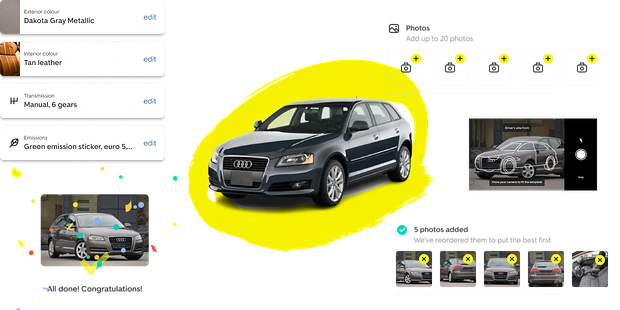
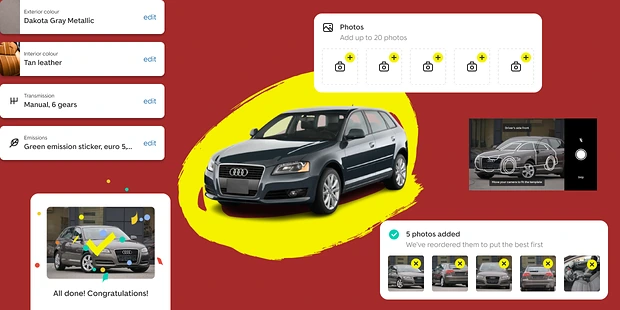
Selling Your Own Car: new homepage cover
Claude-Session: https://claude.ai/code/session_016vAdai3CtSbqx1Acff8fYM

diff --git a/index.html b/index.html
@@ -109,7 +109,7 @@
     <span class="book-cta">Read the case study <span class="book-arrow icon-arrow" aria-hidden="true"></span></span>
   </div>
   <div class="shot">
-  <img src="assets/img/private-sellers/cover.webp?v=3" srcset="assets/img/private-sellers/cover-620.webp?v=3 620w, assets/img/private-sellers/cover.webp?v=3 1240w" sizes="(max-width: 52rem) 100vw, 620px" alt="" width="1240" height="620" loading="lazy">
+  <img src="assets/img/private-sellers/cover.webp?v=4" srcset="assets/img/private-sellers/cover-620.webp?v=4 620w, assets/img/private-sellers/cover.webp?v=4 1240w" sizes="(max-width: 52rem) 100vw, 620px" alt="" width="1240" height="620" loading="lazy">
 </div>
 </a>
     </div>
